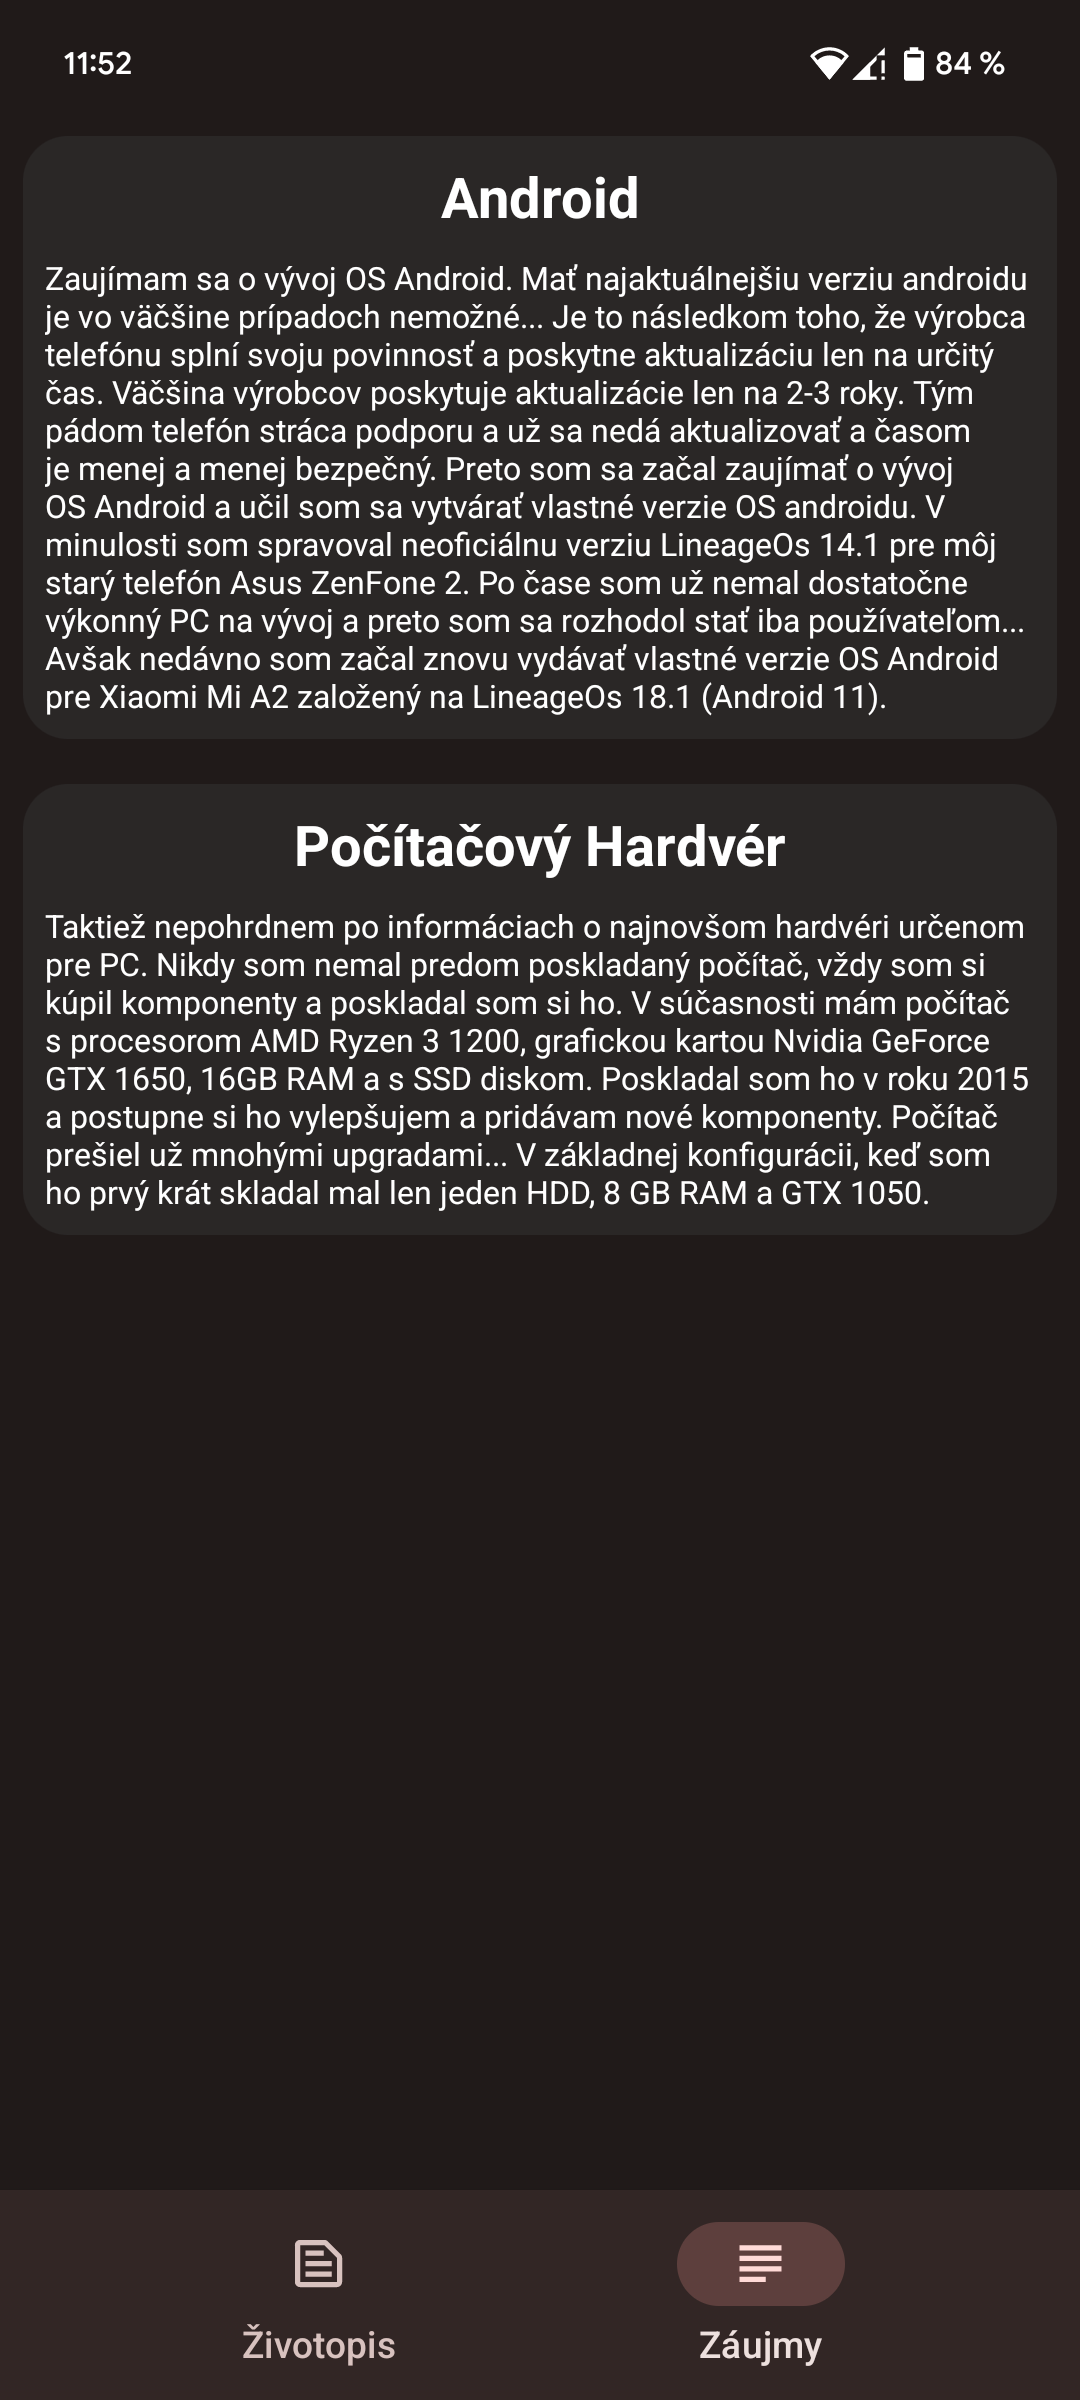
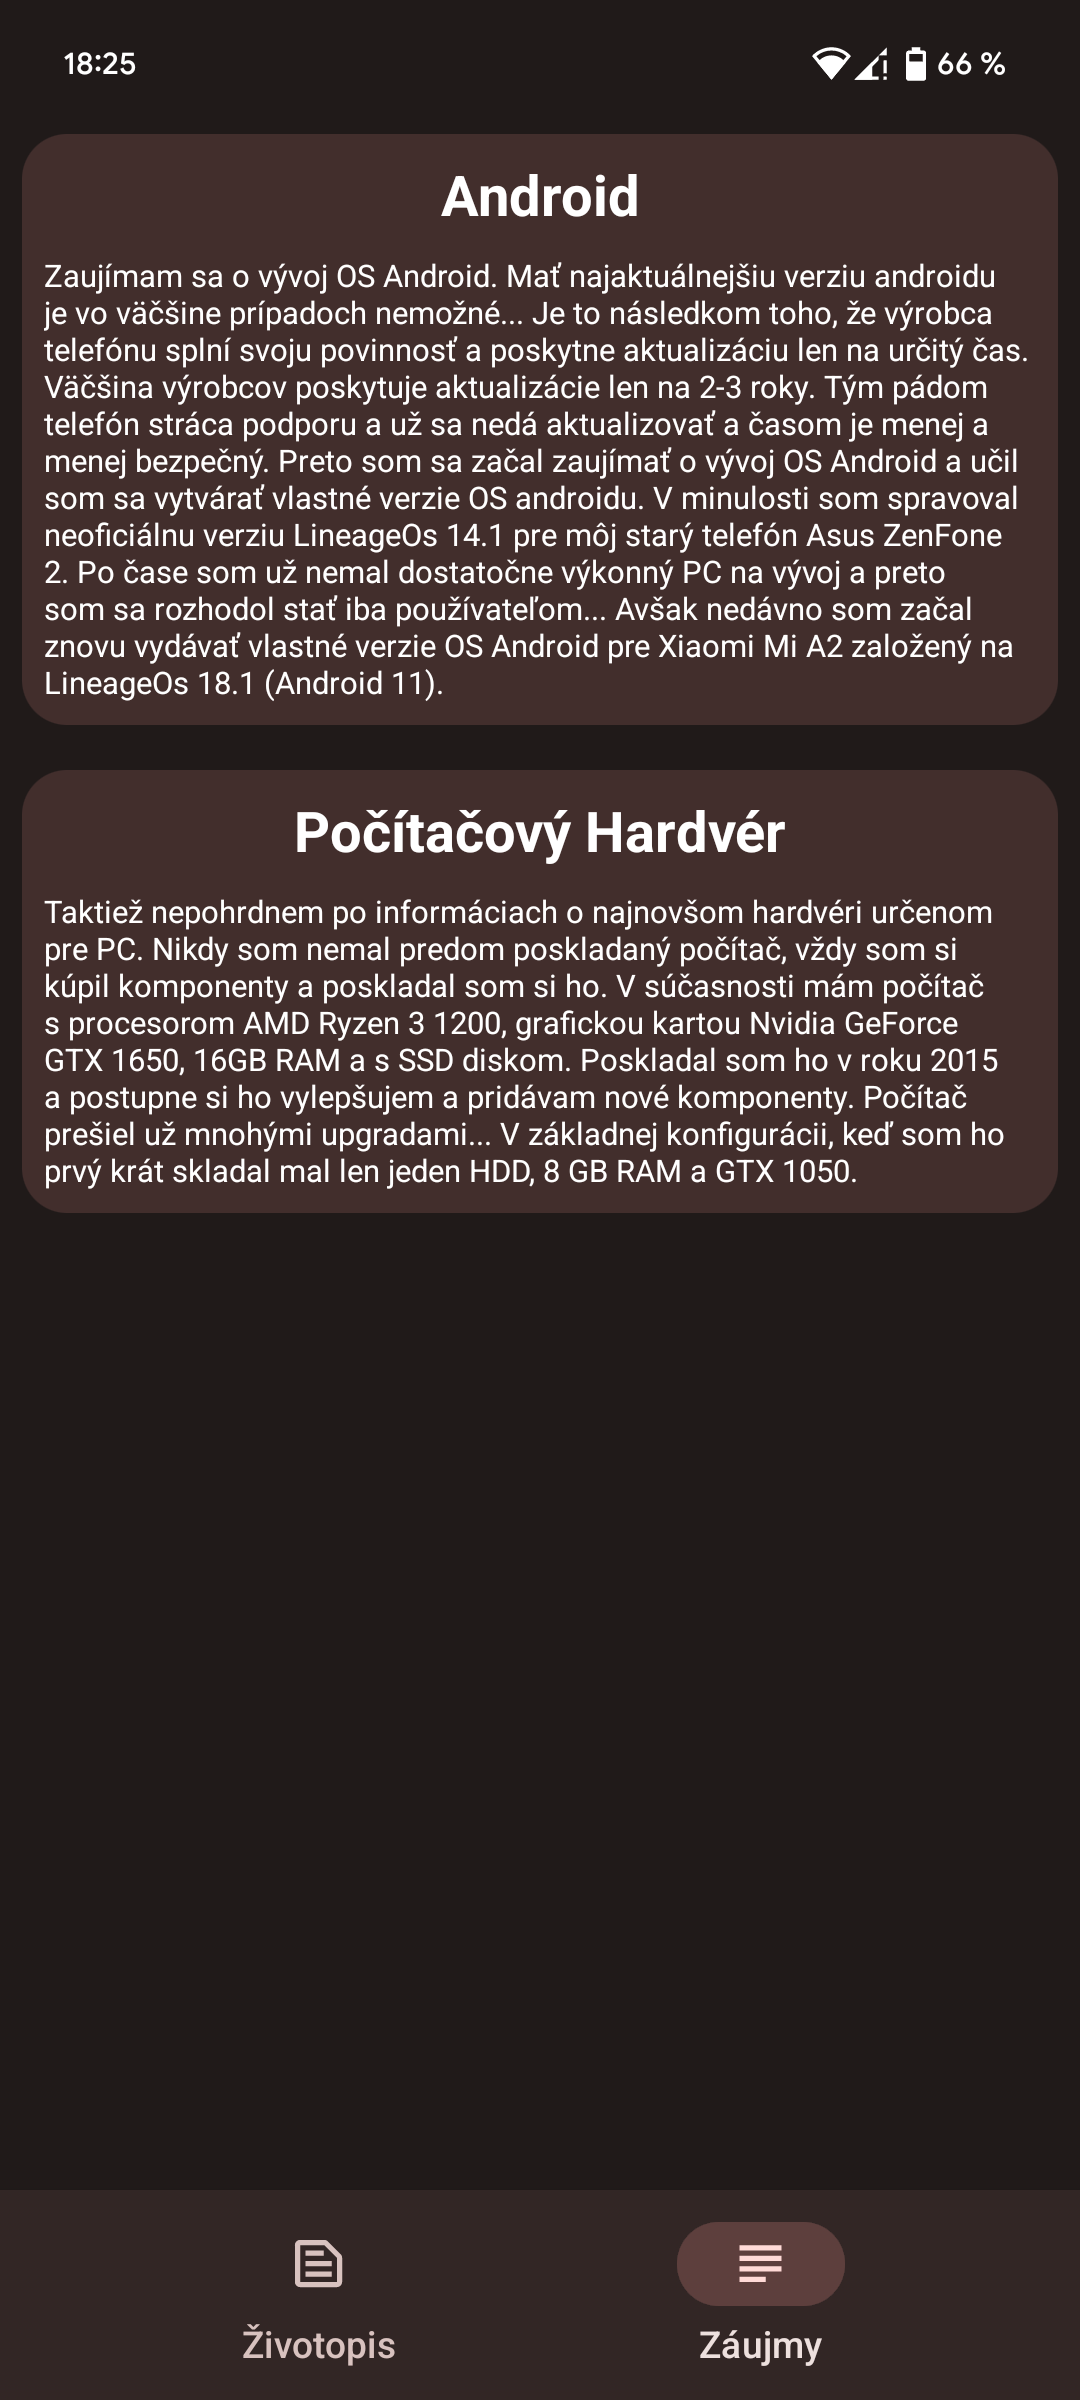
Add files via upload

Changed region(s): [[0.0306, 0.0625, 0.9778, 0.5], [0.8556, 0.0, 0.9167, 0.0312], [0.0611, 0.0, 0.1222, 0.0312]]

diff --git a/projekty.html b/projekty.html
@@ -80,7 +80,7 @@
 				<div class="pra">
 					<p>Môj rozvrh hodín ako mobilná aplikácia. Aplikácia vznikla preto,<br>lebo bola zrušená aplikácia
 						AiS2 a nevedel som nájsť alternatívu.<br>Aplikácia je tiež na Google Play ale nie je verejne
-						prístupná.</p>
+						prístupná.<br>Aplikácia taktiež podporuje Material You.</p>
 					<div class="fotky">
 						<img src="/images/rozvrh_app/dark1.png" alt="rozvrh app dark1" loading="lazy" height="400px">
 						<img src="/images/rozvrh_app/dark2.png" alt="rozvrh app dark2" loading="lazy" height="400px">
